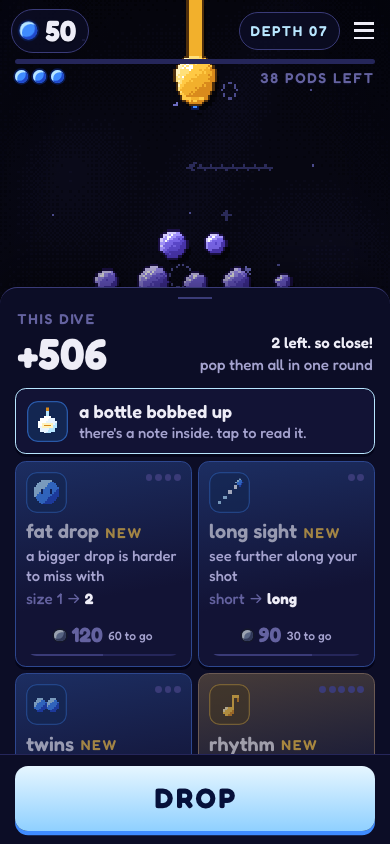
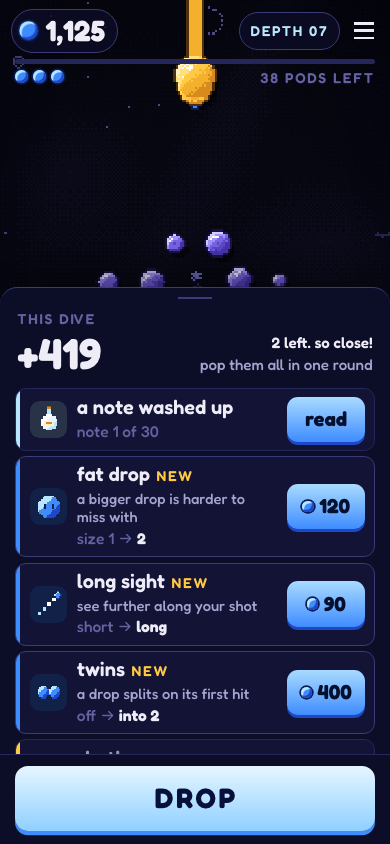
Make the upgrade sheet a list again
One upgrade per row: icon, name, what it becomes, price. A stripe on the left
shows what it acts on. Descriptions appear only on upgrades that are new.
A waiting note is a row in the same style with a read button.

diff --git a/public/css/style.css b/public/css/style.css
@@ -105,39 +105,33 @@ canvas { position:absolute; inset:0; width:100%; height:100%; display:block; ima
 #resN { display:block; font:700 calc(var(--u)*20)/1 var(--font); }
 #resS { color:var(--ink2); text-align:right; font-size:calc(var(--u)*7); line-height:1.4; } #resS em { font-style:normal; font-weight:600; color:var(--ink); }
 #cards { flex:1; min-height:0; overflow-y:auto; -webkit-overflow-scrolling:touch; overscroll-behavior:contain; touch-action:pan-y; position:relative;
-         padding:0 calc(var(--u)*7) calc(var(--u)*5); display:grid; grid-template-columns:1fr 1fr; grid-auto-rows:max-content; gap:calc(var(--u)*3); align-content:start; }
+         padding:0 calc(var(--u)*7) calc(var(--u)*5); display:flex; flex-direction:column; gap:calc(var(--u)*2.4); }
 #cards.enter > * { animation:fadeUp .35s var(--out) both; animation-delay:calc(var(--i)*25ms); }
-.tile, .wide { background:var(--s2); border:var(--hair) solid var(--line); border-radius:calc(var(--u)*5); color:var(--ink); text-align:left; box-shadow:0 calc(var(--u)*1.4) 0 #04051a; }
-/* each tile is tinted by what it acts on: blue for the drop, violet for pods, gold for goo */
-.tile { --c:var(--blue); --p:0%; display:flex; flex-direction:column; align-items:flex-start; padding:calc(var(--u)*4.5);
-        background:linear-gradient(170deg, color-mix(in srgb, var(--c) 22%, var(--s2)), var(--s2) 64%); border-color:color-mix(in srgb, var(--c) 32%, var(--line)); }
-.tile.pod { --c:var(--violet); } .tile.goo { --c:var(--gold); }
-.tile .top { display:flex; width:100%; justify-content:space-between; align-items:flex-start; }
-.ico { flex:none; width:calc(var(--u)*19); height:calc(var(--u)*19); padding:calc(var(--u)*3); image-rendering:pixelated; border-radius:calc(var(--u)*5);
-       background:color-mix(in srgb, var(--c, var(--blue)) 24%, #05061a); box-shadow:inset 0 0 0 var(--hair) color-mix(in srgb, var(--c, var(--blue)) 50%, #0000); }
-.tile .lv { display:flex; flex-wrap:wrap; justify-content:flex-end; gap:calc(var(--u)*1.2); max-width:55%; padding-top:calc(var(--u)*1); font:500 calc(var(--u)*6.2)/1 var(--font); letter-spacing:.1em; text-transform:uppercase; color:var(--ink3); }
-.tile .lv i { width:calc(var(--u)*3.2); height:calc(var(--u)*3.2); border-radius:50%; background:var(--line2); } .tile .lv i.f { background:var(--c); box-shadow:0 0 calc(var(--u)*2.2) var(--c); }
-.tile .lv i.nu { animation:pipin .4s var(--pop); }
-.tile .nm { margin-top:calc(var(--u)*3.5); font-weight:600; font-size:calc(var(--u)*9.2); line-height:1.2; display:flex; align-items:center; gap:calc(var(--u)*3); }
-.tile .ds { margin-top:calc(var(--u)*1); font-size:calc(var(--u)*6.8); line-height:1.3; color:var(--ink2); min-height:2.6em; }
-.tile .fx { margin-top:calc(var(--u)*3); font:500 calc(var(--u)*7)/1 var(--font); color:var(--ink3); white-space:nowrap; }
-.tile .fx b { color:var(--ink); font-weight:700; } .tile .fx i { font-style:normal; margin:0 calc(var(--u)*2); }
-.tile .price { margin-top:calc(var(--u)*4); width:100%; height:calc(var(--u)*19); border-radius:calc(var(--u)*5); display:flex; align-items:center; justify-content:center; gap:calc(var(--u)*2.5); font:700 calc(var(--u)*9.6)/1 var(--font); }
-.tile .price .dot { width:calc(var(--u)*5.4); height:calc(var(--u)*5.4); }
-.tile .price small { font:500 calc(var(--u)*5.6)/1 var(--font); color:var(--ink2); }
-.tile.can { border-color:color-mix(in srgb, var(--c) 75%, var(--line)); }
-.tile.can .price { background:linear-gradient(#a9dbff,var(--blue)); color:#04102e; box-shadow:0 calc(var(--u)*1.4) 0 #1f47c9; }
+/* One upgrade per row: icon, name, what it becomes, price. The stripe on the
+   left says what it acts on: blue for the drop, violet for pods, gold for goo. */
+.tile, .wide { --c:var(--blue); --p:0%; position:relative; flex:none; display:flex; align-items:center; gap:calc(var(--u)*4.5); min-height:calc(var(--u)*29); overflow:hidden;
+               padding:calc(var(--u)*3.5) calc(var(--u)*4) calc(var(--u)*3.5) calc(var(--u)*6.5); background:var(--s2); border:var(--hair) solid var(--line); border-radius:calc(var(--u)*5); color:var(--ink); text-align:left; }
+.tile::before, .wide::before { content:''; position:absolute; left:0; top:0; bottom:0; width:calc(var(--u)*2); background:var(--c); }
+.tile.pod { --c:var(--violet); } .tile.goo, .wide.pearl { --c:var(--gold); } .wide.bottle { --c:var(--sky); } .wide.locked { --c:var(--line2); }
+.ico { flex:none; width:calc(var(--u)*17); height:calc(var(--u)*17); padding:calc(var(--u)*2.5); image-rendering:pixelated; border-radius:calc(var(--u)*4.5); background:color-mix(in srgb, var(--c) 20%, #05061a); }
+.tx { flex:1; min-width:0; display:flex; flex-direction:column; gap:calc(var(--u)*1.6); }
+.nm { font-weight:600; font-size:calc(var(--u)*9.2); line-height:1.1; display:flex; align-items:center; gap:calc(var(--u)*3); }
+.ds { font-size:calc(var(--u)*6.8); line-height:1.25; color:var(--ink2); }
+.fx { font:500 calc(var(--u)*7.2)/1.2 var(--font); color:var(--ink3); } .tile .fx { white-space:nowrap; }
+.fx b { color:var(--ink); font-weight:700; } .fx i { font-style:normal; margin:0 calc(var(--u)*2); }
+.price, .wide em { flex:none; min-width:calc(var(--u)*36); height:calc(var(--u)*21); padding:0 calc(var(--u)*4); border-radius:calc(var(--u)*5); display:flex; align-items:center; justify-content:center; gap:calc(var(--u)*2.5);
+                   font:700 calc(var(--u)*9.4)/1 var(--font); font-style:normal; }
+.price .dot { width:calc(var(--u)*5.4); height:calc(var(--u)*5.4); }
+.tile.can { border-color:var(--line2); }
+.tile.can .price, .wide em { background:linear-gradient(#a9dbff,var(--blue)); color:#04102e; box-shadow:0 calc(var(--u)*1.4) 0 #1f47c9; }
 .tile.poor .nm, .tile.poor .ico { opacity:.6; }
-.tile.poor .price { color:var(--ink3); background:linear-gradient(90deg, var(--line2) var(--p), var(--line) var(--p)) bottom / 100% calc(var(--u)*1.2) no-repeat; } .tile.poor .price .dot { filter:saturate(.25); opacity:.7; }
-.tile.maxed .price { color:var(--gold); letter-spacing:.2em; text-transform:uppercase; font-weight:500; } .tile.maxed .price .dot { display:none; }
-.tile:active { transform:scale(.96); opacity:1; }
-.tile.hit { animation:press .35s var(--pop); } .tile.hit .price, .tile.hit .fx b { animation:flash .4s; } .tile.hit .ico { animation:hop .4s var(--out); } .tile.no { animation:shake .25s; }
+.tile.poor .price { color:var(--ink3); background:linear-gradient(90deg, var(--line2) var(--p), var(--line) var(--p)); } .tile.poor .price .dot { filter:saturate(.25); opacity:.7; }
+.tile.maxed .price { color:var(--gold); font-size:calc(var(--u)*7); letter-spacing:.14em; text-transform:uppercase; } .tile.maxed .price .dot { display:none; }
+.tile:active, .wide:active { transform:scale(.97); opacity:1; }
+.tile.hit { animation:press .35s var(--pop); } .tile.hit .ico { animation:hop .4s var(--out); } .tile.hit .price, .tile.hit .fx b { animation:flash .4s; } .tile.no { animation:shake .25s; }
 .tag { font-style:normal; color:var(--gold); }
-.wide { grid-column:1 / -1; display:flex; align-items:center; gap:calc(var(--u)*5); padding:calc(var(--u)*5); }
-.wide b { display:block; font-weight:600; font-size:calc(var(--u)*8.4); } .wide small { display:block; font-size:calc(var(--u)*6.8); line-height:1.3; color:var(--ink2); }
-.wide.locked { background:none; border-style:dashed; } .wide.locked b { font:500 calc(var(--u)*7)/1.6 var(--font); letter-spacing:.3em; color:var(--ink3); } .wide.locked small { color:var(--ink3); }
-.wide.bottle { border-color:var(--sky); }
-.wide.pearl { border-color:#ffc94466; } .wide.pearl em { flex:none; font:500 calc(var(--u)*6.2)/1 var(--font); letter-spacing:.14em; text-transform:uppercase; color:var(--gold); border:var(--hair) solid var(--gold); border-radius:calc(var(--u)*2); padding:calc(var(--u)*4) calc(var(--u)*5); }
+.wide.locked { background:none; border-style:dashed; min-height:calc(var(--u)*22); } .wide.locked .nm { color:var(--ink3); letter-spacing:.3em; }
+.wide.pearl em { background:linear-gradient(#fff3bf,var(--gold)); color:#4f2f0c; box-shadow:0 calc(var(--u)*1.4) 0 #d98a1c; }
 .spark { position:absolute; z-index:40; pointer-events:none; width:calc(var(--u)*2); height:calc(var(--u)*2); margin:calc(var(--u)*-1); background:var(--sky); animation:spark .5s var(--out) forwards; }
 .spark.h { width:auto; height:auto; background:none; color:var(--pink); font-size:calc(var(--u)*7); line-height:1; animation-duration:.8s; }
 #foot { flex:none; padding:calc(var(--u)*5) calc(var(--u)*7) calc(env(safe-area-inset-bottom) + var(--u)*6); border-top:var(--hair) solid var(--line); }

diff --git a/public/js/ui.js b/public/js/ui.js
@@ -110,17 +110,17 @@ const ui = {
   },
   tiles() {
     const box = $('cards'); box.innerHTML = ''; tileEls = {}; let i = 0;
-    const wide = (cls, icon, head, sub, extra = '') => { const el = document.createElement('button'); el.className = 'wide ' + cls; el.style.setProperty('--i', i++); el.innerHTML = (icon ? `<img class="ico" src="${ico(icon)}" alt="">` : '') + `<span style="flex:1"><b>${head}</b><small>${sub}</small></span>${extra}`; box.appendChild(el); return el; };
-    if (S.read < notesOpen()) wide('bottle', 'bottle', 'a bottle bobbed up', "there's a note inside. tap to read it.").onclick = () => openNote(S.read);
+    const wide = (cls, icon, head, sub, extra = '') => { const el = document.createElement('button'); el.className = 'wide ' + cls; el.style.setProperty('--i', i++); el.innerHTML = (icon ? `<img class="ico" src="${ico(icon)}" alt="">` : '') + `<span class="tx"><span class="nm">${head}</span><span class="fx">${sub}</span></span>${extra}`; box.appendChild(el); return el; };
+    if (S.read < notesOpen()) wide('bottle', 'bottle', 'a note washed up', `note ${S.read + 1} of ${NOTES.length}`, '<em>read</em>').onclick = () => openNote(S.read);
     const isNew = u => u.depth && !S.seen[u.id], opened = UP.filter(open), locked = UP.filter(u => !open(u));
     for (const u of [...opened.filter(isNew), ...opened.filter(u => !isNew(u))]) {
       const el = document.createElement('button'); el.style.setProperty('--i', i++); el._new = isNew(u);
-      el.innerHTML = `<span class="top"><img class="ico" src="${ico(u.id)}" alt=""><span class="lv"></span></span><span class="nm">${u.name}${el._new ? '<i class="tag">new</i>' : ''}</span><span class="ds">${u.desc}</span><span class="fx"></span><span class="price"><i class="dot"></i><b></b><small></small></span>`;
+      el.innerHTML = `<img class="ico" src="${ico(u.id)}" alt=""><span class="tx"><span class="nm">${u.name}${el._new ? '<i class="tag">new</i>' : ''}</span>${el._new ? `<span class="ds">${u.desc}</span>` : ''}<span class="fx"></span></span><span class="price"><i class="dot"></i><b></b></span>`;
       holdToBuy(el, u); tileEls[u.id] = el; box.appendChild(el);
     }
-    if (locked.length) wide('locked', '', '? ? ?', `something new waits at depth ${locked[0].depth}`);
+    if (locked.length) wide('locked', '', '? ? ?', `something new at depth ${locked[0].depth}`);
     const pe = pearlsFor(S.layer);
-    if (pe > 0) wide('pearl', 'pearl', 'drain the pool', `start again from depth 1 with ${pe} pearl${pe > 1 ? 's' : ''}. each pearl: +50% goo, forever.`, '<em>drain</em>').onclick = () => {
+    if (pe > 0) wide('pearl', 'pearl', 'drain the pool', `restart with ${pe} pearl${pe > 1 ? 's' : ''} · +50% goo each`, '<em>drain</em>').onclick = () => {
       if (!confirm(`Start over from depth 1 and keep ${pe} pearl${pe > 1 ? 's' : ''}?`)) return;
       S = Object.assign(S, { goo: 0, layer: 1, best: 0, up: {}, seen: {}, sure: {}, pearls: S.pearls + pe }); save(); sfx.clear(); newRound({ got: 0, pct: 0, left: 9, cleared: true, combo: 0, total: 1 }); netDive(true);
     };
@@ -131,10 +131,8 @@ const ui = {
       const el = tileEls[u.id]; if (!el) continue;
       const l = lv(u.id), c = cost(u), maxed = l >= u.max, can = !maxed && S.goo >= c;
       el.className = `tile ${u.cat} ${maxed ? 'maxed' : can ? 'can' : 'poor'}${el._new ? ' fresh' : ''}`;
-      el.querySelector('.lv').innerHTML = u.max <= 7 ? Array.from({ length: u.max }, (_, k) => `<i class="${k < l ? 'f' : ''}${k === l - 1 && u.id === boughtId ? ' nu' : ''}"></i>`).join('') : 'lv ' + l;
       const [a, b] = fxPair(u.fx(l), u.fx(l + 1)); el.querySelector('.fx').innerHTML = maxed ? `<b>${u.fx(l)}</b>` : `${a}<i>→</i><b>${b}</b>`;
       el.querySelector('.price b').textContent = maxed ? 'max' : fmt(c);
-      el.querySelector('.price small').textContent = !maxed && !can && S.goo >= c * .5 ? fmt(c - S.goo) + ' to go' : '';
       el.style.setProperty('--p', maxed ? '100%' : Math.min(100, S.goo / c * 100) + '%');
       if (u.id === boughtId) rebump(el, 'hit');
     }
